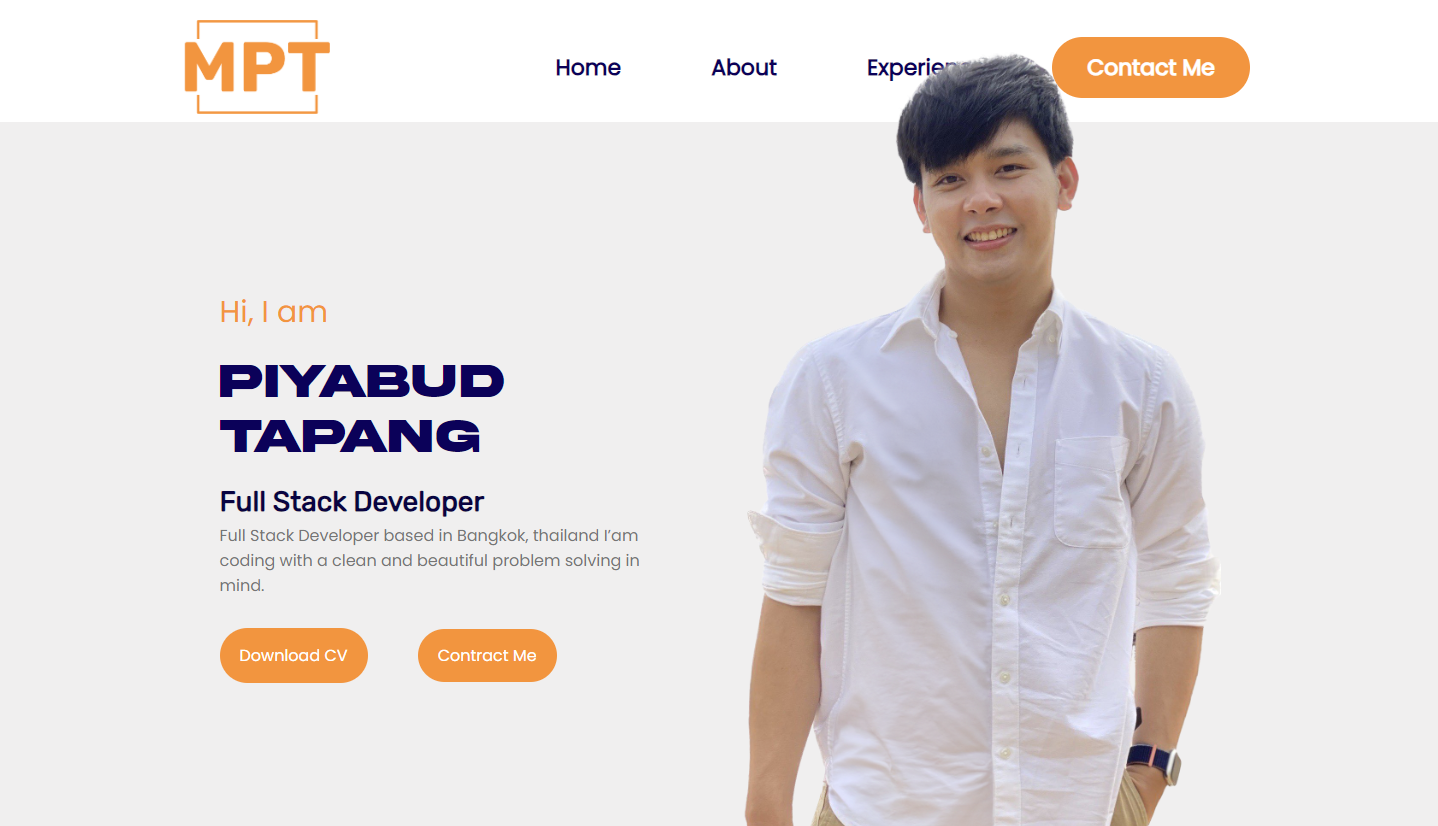
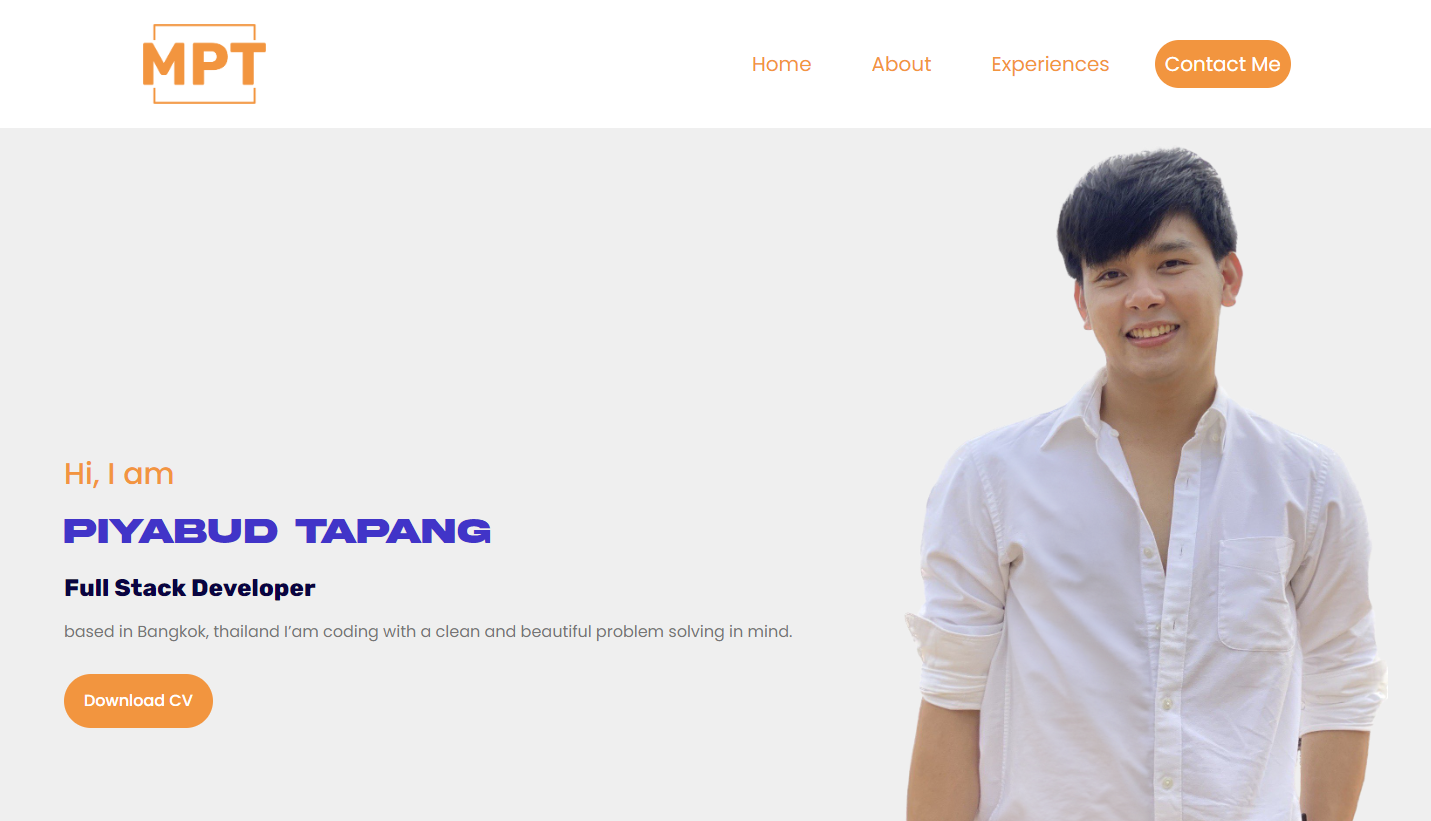
finish : responsive

diff --git a/src/components/style-aboutme.css b/src/components/style-aboutme.css
@@ -1,5 +1,5 @@
 :root {
-  --bg-image: url("../../public/img/bg-aboutme.jpg");
+  --bg-image: url("/img/bg-aboutme.jpg");
 }
 
 .about-me-page {
@@ -20,12 +20,58 @@
   flex-direction: column;
   justify-content: space-around;
   align-items: center;
+
+  @media (min-width: 1024px) {
+    height: 80%;
+    display: flex;
+    flex-direction: row;
+    justify-content: space-around;
+    align-items: center;
+    padding: 30px;
+  }
 }
 
 .user-info {
   flex: 2;
   /* border: 1px solid #000; */
   padding: 50px;
+  & p:nth-child(1) {
+    font-size: 33px;
+    font-weight: 700;
+    color: var(--orange-color);
+  }
+  & p:nth-child(2) {
+    font-size: 44px;
+    font-weight: bolder;
+    color: var(--blue2-color);
+  }
+  & p:nth-child(3) {
+    font-size: 16px;
+    color: var(--font-color);
+    margin-bottom: 10px;
+    /* border: 1px solid #000; */
+    margin-bottom: 2rem;
+  }
+  & .contact {
+    display: flex;
+    justify-content: start;
+    align-items: center;
+
+    & td {
+      text-align: left;
+      padding: 10px 4px;
+    }
+
+    & th:nth-child(1),
+    & td:nth-child(1) {
+      color: var(--orange-color);
+    }
+
+    & th:nth-child(2),
+    & td:nth-child(2) {
+      font-weight: bolder;
+    }
+  }
 }
 
 .user-img {
@@ -33,56 +79,10 @@
   display: flex;
   justify-content: center;
   align-items: center;
-}
 
-.user-img > img {
-  width: 430px;
-  border-radius: 0px 100px 100px 100px;
-}
-
-.fa-icon {
-  display: inline;
-  color: var(--orange-color);
-  font-size: 26px;
-}
-
-.user-info > p:nth-child(1) {
-  font-size: 33px;
-  font-weight: 700;
-  color: var(--orange-color);
-}
-
-.user-info > p:nth-child(2) {
-  font-size: 44px;
-  font-weight: bolder;
-  color: var(--blue2-color);
-}
-
-.user-info > p:nth-child(3) {
-  font-size: 16px;
-  color: var(--font-color);
-  margin-bottom: 10px;
-  /* border: 1px solid #000; */
-  margin-bottom: 2rem;
-}
-
-.contact {
-  display: flex;
-  justify-content: center;
-  align-items: center;
-}
-
-td {
-  text-align: left;
-  padding: 10px 4px;
-}
-
-th:nth-child(1),
-td:nth-child(1) {
-  color: var(--orange-color);
-}
-
-th:nth-child(2),
-td:nth-child(2) {
-  font-weight: bolder;
+  & img {
+    width: 430px;
+    /* border: 1px solid #000; */
+    border-radius: 100px 100px 20px 20px;
+  }
 }

diff --git a/src/components/Myworks.jsx b/src/components/Myworks.jsx
@@ -8,19 +8,19 @@ const url = [
     url: "https://courseflow-bc8ion4is-piyabud.vercel.app/",
     img: "/img/courseflow.png",
   },
-
   {
     id: 2,
-    title: "To Do List",
-    url: "https://to-do-app-list-beryl.vercel.app/",
-    img: "/img/todo.png",
-  },
-  {
-    id: 3,
     title: "Food delivery",
     url: "https://food-delivery-app-sage.vercel.app/",
     img: "/img/pizza.png",
   },
+  {
+    id: 3,
+    title: "To Do List",
+    url: "https://to-do-app-list-beryl.vercel.app/",
+    img: "/img/todo.png",
+  },
+
   {
     id: 4,
     title: "Resume Landing Page",
@@ -31,11 +31,11 @@ const url = [
 
 function Myworks() {
   return (
-    <div>
+    <div id="port">
       <div className="experiences--info">
-        <div className="jobs-detail">
+        <div className="jobs-detail md:flex md:justify-center md:flex-col md:items-center">
           <h1>My Portfolio</h1>
-          <ul className="">
+          <ul className=" md:w-[600px]">
             {url.map((item) => (
               <div className="a shadow-lg" key={item.id}>
                 <a className="" href={item.url} target="_blank">

diff --git a/src/components/BergerMenu.jsx b/src/components/BergerMenu.jsx
@@ -3,10 +3,10 @@ import React, { useState } from "react";
 
 const links = [
   { id: 1, title: "Home", url: "/" },
-  { id: 2, title: "About", url: "/" },
-  { id: 3, title: "Educations", url: "/" },
-  { id: 4, title: "Experiences", url: "/" },
-  // { id: 5, title: "Download Resume", url: "/" },
+  { id: 2, title: "About", url: "#about-me" },
+  { id: 3, title: "Educations", url: "#education-id" },
+  { id: 4, title: "Experiences", url: "#experiences-id" },
+  { id: 5, title: "Portfolio", url: "#port" },
 ];
 
 function downloadFileAtURL(url) {
@@ -24,9 +24,7 @@ function BergerMenu() {
   return (
     <div>
       <img
-        src={
-          openMenu ? "/img/close.svg" : "/img/burger-menu.svg"
-        }
+        src={openMenu ? "/img/close.svg" : "/img/burger-menu.svg"}
         alt=""
         width={20}
         height={20}

diff --git a/src/components/Education.jsx b/src/components/Education.jsx
@@ -4,7 +4,9 @@ function Education() {
   return (
     <div>
       <li>
-        <div className="company">Chiang Mai University</div>
+        <div id="education-id" className="company">
+          Chiang Mai University
+        </div>
         <div className="position">
           Bachelor of Science – Animation, College of Arts, Media and Technology
         </div>

diff --git a/src/components/Experiences.jsx b/src/components/Experiences.jsx
@@ -55,7 +55,7 @@ function Experiences() {
           <h1 className="mt-10">Experiences</h1>
         </div>
         <div className="experiences--info">
-          <div className="jobs-detail">
+          <div id="education-id" className="jobs-detail">
             <h1>Education</h1>
             <ul className="">
               {EduList.map((item) => (

diff --git a/src/components/AboutMePage.jsx b/src/components/AboutMePage.jsx
@@ -16,7 +16,7 @@ function AboutMePage() {
   return (
     <div id="about-me" className="about-me-page ">
       <div className="about-me-canvas ">
-        <div className="user-img hidden">
+        <div className="user-img hidden lg:block">
           <img
             src="/img/profileaboutme.svg"
             alt=""
